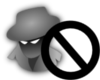
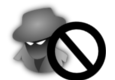
Replaced hover title with clickable image

Changed region(s): [[0.03, 0.075, 1.0, 1.0], [0.3, 0.825, 0.33, 0.85]]

diff --git a/static/style.css b/static/style.css
@@ -1195,14 +1195,19 @@ form #trackerlink
 
 #invitationmethods
 {
+	display: inline-block;
+	margin-left: auto;
+	margin-right: auto;
 	text-align: center;
-	width: auto;
 	margin-top: 1em;
+	width: 100%;
 }
 
-#invitationmethods img
+.invitationimg
 {
-	margin-right: 4em;
+	display: inline-block;
+	margin-right: 3em;
+	width: 110px;
 }
 
 .howtorequests
@@ -1218,6 +1223,17 @@ form #trackerlink
 .isinvalid
 {
 	background-color: red !important;
+}
+
+#howtotext
+{
+	margin-top: 2px;
+	margin-left: auto;
+	margin-right: auto;
+	width: 85%;
+	background-color: #FFF48D;
+	padding: 2px;
+	text-align: center;
 }
 
 /* Mobile version */  

diff --git a/tpn/addressbook.cpp b/tpn/addressbook.cpp
@@ -551,39 +551,71 @@ void AddressBook::http(const String &prefix, Http::Request &request)
 
 			page.open("div","invitationmethods");
 
-			// TODO : span with title in html.cpp ?
-			page.raw("<span title=\"Classic and most discreet way. Exchange a plain text secret with your friend by email, phone, IRL... and input it here with his TeapotNet id.\">");
+			page.open("span",".invitationimg");
 			page.image("/spy.png","Classic way","spyimg");
-			page.raw("</span>");
+			page.close("span");
 
-			page.raw("<span title=\"Input your and your friend's email address. An invitation containing a code will be sent to your friend, and then back to you.\">");
+			page.open("span",".invitationimg");
 			page.image("/mail.png","Mail","mailimg");
-			page.raw("</span>");
+			page.close("span");
 
+			page.open("span",".invitationimg");
 			page.openForm(centralizedFriendSystemUrl+gcontacts,"post","gmailform");
 			page.input("hidden", "tpn_id", tpn_id);
-			page.raw("<span title=\"Select from your GMail contacts the people you want to send an invitation containg a code to reach you to.\">");
 			page.image("/gmail.png","GMail","gmailimg");
-			page.raw("</span>");
 			page.closeForm();
+			page.close("span");
 
-			page.raw("<span title=\"Coming soon.\">");
+			page.open("span",".invitationimg");
 			page.image("/facebook_by_benstein.png","Facebook","fbimg");
-			page.raw("</span>");
+			page.close("span");
 
 			page.close("div");
 
+			page.open("div","howtotext");
 			page.close("div");
+
+			page.close("div");
+
+			page.javascript("var currentObject; \n\
+					$('#howtotext').hide(); \n\
+					// Load question mark images \n\
+					$('.invitationimg').append('<img src=\"/questionmark.png\" alt=\"?\" class=\"questionmark\">'); \n\
+					$('.questionmark').click(function() { \n\
+						// Click on same question mark will toggle, else will not change visibility of howtotext \n\
+						if($(this).is(currentObject) || !$('#howtotext').is(':visible')) \n\
+							$('#howtotext').slideToggle('fast'); \n\
+						currentObject = $(this); \n\
+						var text = howtoText($(this).prev()); \n\
+						$('#howtotext').html(text); \n\
+					}); \n\
+					function howtoText(object) { \n\
+						if(object.is($('#spyimg'))) \n\
+							return \"Classic and most discreet way. Exchange a plain text secret with your friend by email, phone, IRL... and input it here with his TeapotNet id.\"; \n\
+						if(object.is($('#mailimg'))) \n\
+							return \"Input your and your friend's email address. An invitation containing a code will be sent to your friend, and then back to you.\"; \n\
+						if(object.is($('form[name=gmailform]'))) \n\
+							return \"Select from your GMail contacts the people you want to send an invitation containg a code to reach you to.\"; \n\
+						if(object.is($('#fbimg'))) \n\
+							return \"Coming soon.\"; \n\
+						return \"default\"; \n\
+					} \n\
+					");
 
 
 			page.openForm(prefix+"/","post","newcontact");
-			page.openFieldset("New contact");
+			page.open("div","newcontactdiv.box");
+			page.open("h2");
+			page.text("Add contact");
+			page.close("h2");
+			//page.openFieldset("New contact");
 			page.input("hidden", "token", token);
 			page.label("name","TeapotNet Id"); page.input("text","name"); page.br();
 			page.label("secret","Secret"); page.input("text","secret","",true); page.br();
 			page.label("add"); //page.button("add","Add contact");
 			page.raw("<input type=\"button\" name=\"add\" value=\"Add contact\">"); // No way not to submit form with input --> TODO : change in html.cpp ?
-			page.closeFieldset();
+			//page.closeFieldset();
+			page.close("div");
 			page.closeForm();
 
 			// TODO : add dummy form ? (check on stackoverflow says it should work fine with input outside forms
@@ -601,9 +633,18 @@ void AddressBook::http(const String &prefix, Http::Request &request)
 					var tpnIdCookie = 'tpnIdCookie'; \n\
 					setCookie(tpnIdCookie,'"+tpn_id+"',365); // Keep tpn_id in a cookie \n\
 					$('#sendrequest').hide(); \n\
-					$('form[name=newcontact]').hide(); \n\
-					$('#spyimg').click(function() { $('form[name=newcontact]').toggle(); }); \n\
-					$('#mailimg').click(function() { $('#sendrequest').toggle(); }); \n\
+					$('#newcontactdiv').hide(); \n\
+					var showOneForm = false; \n\
+					$('#spyimg').click(function() { if(showOneForm) \n\
+										$('#sendrequest').hide(); \n\
+									$('#newcontactdiv').toggle(); \n\
+									showOneForm = true; \n\
+									}); \n\
+					$('#mailimg').click(function() { if(showOneForm) \n\
+										$('#newcontactdiv').hide(); \n\
+									$('#sendrequest').toggle(); \n\
+									showOneForm = true; \n\
+									}); \n\
 					$('#gmailimg').click(function() { \n\
 						$('form[name=gmailform]').submit(); \n\
 					}); \n\
